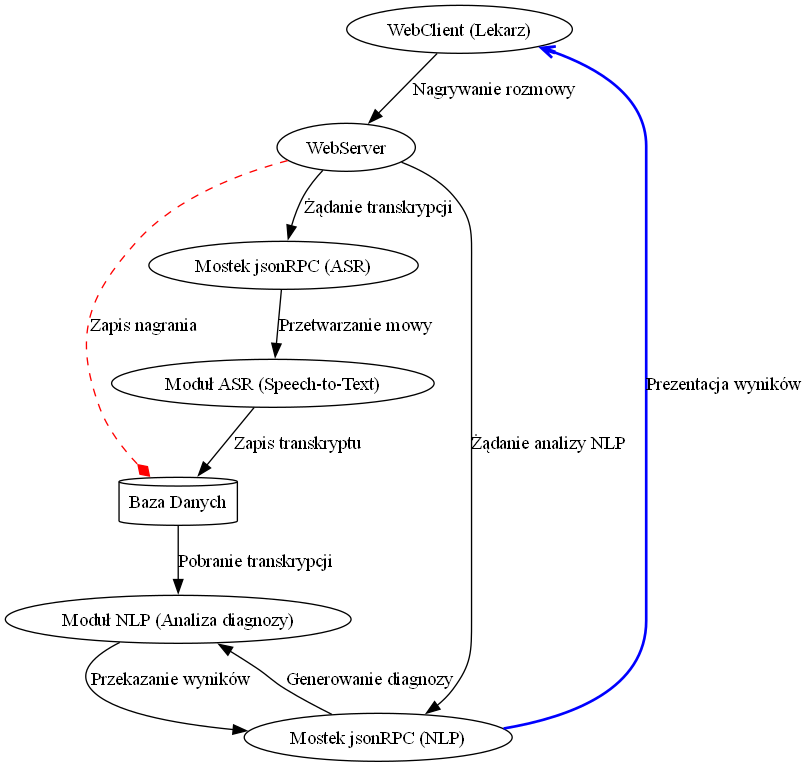
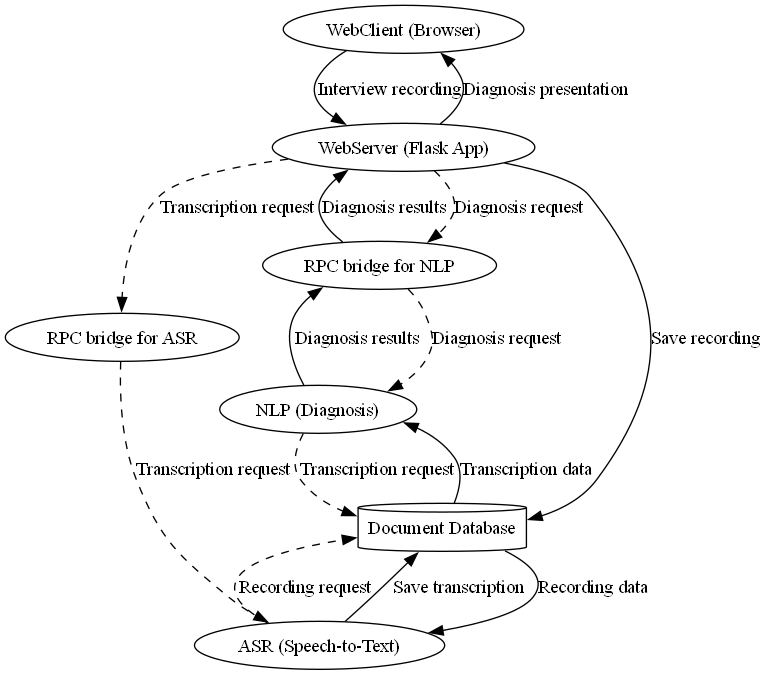
angielki i żądania

diff --git a/graphTest/blockDiagram.py b/graphTest/blockDiagram.py
@@ -4,13 +4,13 @@ def generate_flowchart():
     dot = Digraph(format='png')
     
     # # Nodes
-    # dot.node('WC', 'WebClient (Lekarz)')
-    # dot.node('WS', 'WebServer')
-    # dot.node('DB', 'Baza Danych')
-    # dot.node('ASR', 'Moduł ASR (Speech-to-Text)')
-    # dot.node('NLP', 'Moduł NLP (Analiza diagnozy)')
-    # dot.node('RPC1', 'Mostek jsonRPC (ASR)')
-    # dot.node('RPC2', 'Mostek jsonRPC (NLP)')
+    dot.node('WC', 'WebClient (Browser)')
+    dot.node('WS', 'WebServer (Flask App)')
+    dot.node('DB', 'Document Database', shape='cylinder')
+    dot.node('ASR', 'ASR (Speech-to-Text)')
+    dot.node('NLP', 'NLP (Diagnosis)')
+    dot.node('RPC1', 'RPC bridge for ASR')
+    dot.node('RPC2', 'RPC bridge for NLP')
     
     # # Edges
     # dot.edge('WC', 'WS', 'Nagrywanie rozmowy')
@@ -23,32 +23,22 @@ def generate_flowchart():
     # dot.edge('NLP', 'WS', 'Przekazanie wyników')
     # dot.edge('WS', 'WC', 'Prezentacja wyników lekarzowi')
 
-    # Nodes
-    dot.node('WC', 'WebClient (Lekarz)', shape='ellipse')
-    dot.node('DB', 'Baza Danych', shape='cylinder')
-
-    # dot.node('WC', 'WebClient (Lekarz)')
-    dot.node('WS', 'WebServer')
-    # dot.node('DB', 'Baza Danych')
-    dot.node('ASR', 'Moduł ASR (Speech-to-Text)')
-    dot.node('NLP', 'Moduł NLP (Analiza diagnozy)')
-    dot.node('RPC1', 'Mostek jsonRPC (ASR)')
-    dot.node('RPC2', 'Mostek jsonRPC (NLP)')
     
     # Edges
-    dot.edge('WC', 'WS', 'Nagrywanie rozmowy')
-    # dot.edge('WS', 'DB', 'Zapis nagrania')
-    dot.edge('WS', 'DB', 'Zapis nagrania', style='dashed', color='red', arrowhead='diamond')
-
-    dot.edge('WS', 'RPC1', 'Żądanie transkrypcji')
-    dot.edge('RPC1', 'ASR', 'Przetwarzanie mowy')
-    dot.edge('ASR', 'DB', 'Zapis transkryptu')
-    dot.edge('WS', 'RPC2', 'Żądanie analizy NLP')
-    dot.edge('RPC2', 'NLP', 'Generowanie diagnozy')
-    dot.edge('NLP', 'RPC2', 'Przekazanie wyników')
-    # dot.edge('RPC2', 'WC', 'Prezentacja wyników lekarzowi')
-    dot.edge('RPC2', 'WC', 'Prezentacja wyników', style='bold', color='blue', arrowhead='vee')
-    dot.edge('DB', 'NLP', 'Pobranie transkrypcji')
+    dot.edge('WC', 'WS', 'Interview recording')
+    dot.edge('WS', 'DB', 'Save recording')
+    dot.edge('WS', 'RPC1', 'Transcription request',style='dashed')
+    dot.edge('RPC1', 'ASR', 'Transcription request',style='dashed')
+    dot.edge('ASR', 'DB', 'Recording request',style='dashed')
+    dot.edge('DB', 'ASR', 'Recording data')
+    dot.edge('ASR', 'DB', 'Save transcription')
+    dot.edge('WS', 'RPC2', 'Diagnosis request',style='dashed')
+    dot.edge('RPC2', 'NLP', 'Diagnosis request',style='dashed')
+    dot.edge('NLP', 'DB', 'Transcription request',style='dashed')
+    dot.edge('DB', 'NLP', 'Transcription data')
+    dot.edge('NLP', 'RPC2', 'Diagnosis results')
+    dot.edge('RPC2', 'WS', 'Diagnosis results')
+    dot.edge('WS', 'WC', 'Diagnosis presentation')
     
     return dot
 
